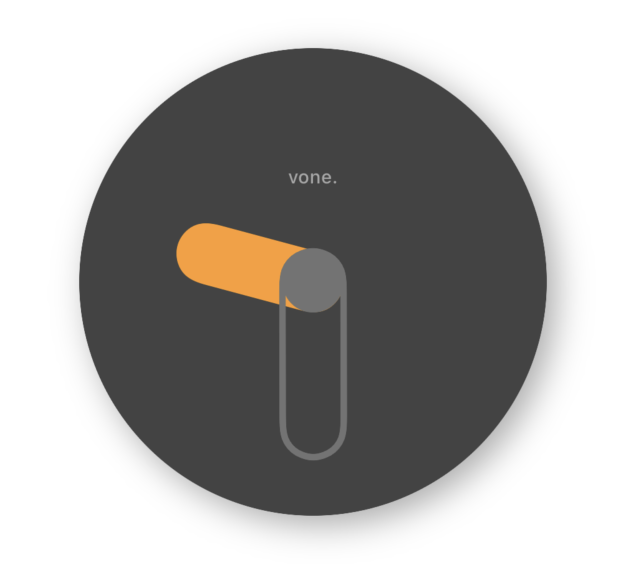
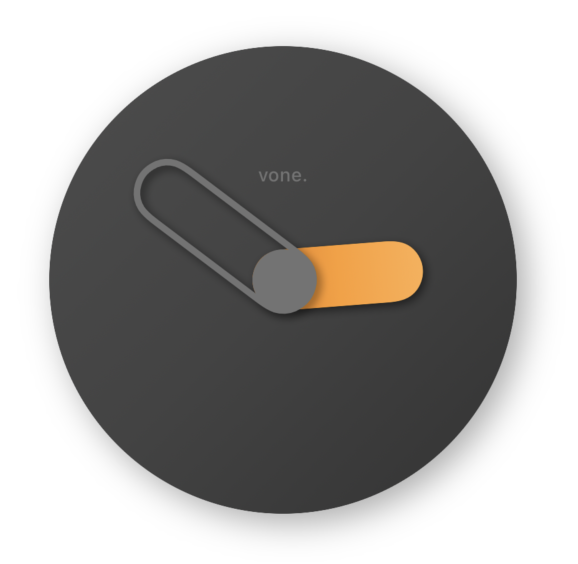
Added gradients to make vone clock face look more realistic.

diff --git a/Sources/SwiftClockKit/Themes/VoneClock/Constants/VoneClockTheme.swift b/Sources/SwiftClockKit/Themes/VoneClock/Constants/VoneClockTheme.swift
@@ -15,26 +15,42 @@ struct VoneClockTheme {
     }
     
 
-    // --- Day Colors ---
-    private static let dayFaceColor = Color(red: 0.263, green: 0.263, blue: 0.263) // Dark Matte Gray
-    private static let dayHourHandColor = Color(red: 0.994, green: 0.614, blue: 0.176) // Vibrant Orange
-    private static let dayMinuteHandColor = Color(red: 0.45, green: 0.45, blue: 0.45) // Slightly lighter Gray for minute hand frame
-    private static let dayBrandTextColor = Color(red: 0.45, green: 0.45, blue: 0.45) // Light gray for "vone." text
-    private static let dayShadow = Color.black.opacity(0.5)
-    
     // --- Night Colors ---
-    private static let nightFaceColor = Color(red: 214/255.0, green: 212/255.0, blue: 213/255.0)
-    private static let nightHourHandColor = Color(red: 253/255.0, green: 156/255.0, blue: 44/255.0)
-    private static let nightMinuteHandColor = Color(red: 106/255.0, green: 106/255.0, blue: 104/255.0)
-    private static let nightBrandTextColor = Color(white: 0.65)
-    private static let nightShadow = Color.black.opacity(0.6)
+    private static let nightFaceColor = Color(red: 0.263, green: 0.263, blue: 0.263) // Base
+    private static let nightFaceLightColor = Color(red: 0.30, green: 0.30, blue: 0.30)    // Slightly lighter
+    private static let nightFaceDarkColor = Color(red: 0.20, green: 0.20, blue: 0.20)     // Slightly darker
+    private static let nightHourHandColor = Color(red: 0.994, green: 0.614, blue: 0.176) // Base
+    private static let nightHourHandLightColor = Color(red: 1.0, green: 0.68, blue: 0.30) // Slightly lighter
+    private static let nightHourHandDarkColor = Color(red: 0.90, green: 0.48, blue: 0.10) // Slightly darker
+    private static let nightMinuteHandColor = Color(red: 0.45, green: 0.45, blue: 0.45) // Slightly lighter Gray for minute hand frame
+    private static let nightBrandTextColor = Color(red: 0.45, green: 0.45, blue: 0.45) // Light gray for "vone." text
+    private static let nightShadow = Color.black.opacity(0.5)
+    
+    // --- Day Colors ---
+    private static let dayFaceColor  = Color(red: 214/255.0, green: 212/255.0, blue: 213/255.0) // Base
+    private static let dayFaceLightColor = Color(red: 224/255.0, green: 222/255.0, blue: 223/255.0) // Slightly lighter
+    private static let dayFaceDarkColor = Color(red: 194/255.0, green: 192/255.0, blue: 193/255.0) // Slightly darker
+    private static let dayHourHandColor = Color(red: 253/255.0, green: 156/255.0, blue: 44/255.0) // Base
+    private static let dayHourHandLightColor = Color(red: 1.0, green: 170/255.0, blue: 70/255.0)   // Slightly lighter
+    private static let dayHourHandDarkColor  = Color(red: 230/255.0, green: 130/255.0, blue: 20/255.0) // Slightly darker
+    private static let dayMinuteHandColor = Color(red: 145/255.0, green: 145/255.0, blue: 143/255.0)
+    private static let dayBrandTextColor = Color(white: 0.65)
+    private static let dayShadow = Color.black.opacity(0.3)
+    
 
 
     // --- Computed Properties ---
-    var face: Color { effectiveColorScheme == .dark ? Self.dayFaceColor : Self.nightFaceColor }
-    var hourHand: Color { effectiveColorScheme == .dark ? Self.dayHourHandColor : Self.nightHourHandColor}
-    var minuteHand: Color { effectiveColorScheme == .dark ? Self.dayMinuteHandColor : Self.nightMinuteHandColor }
-    var centerHub: Color { effectiveColorScheme == .dark ? Self.dayMinuteHandColor : Self.nightMinuteHandColor }
+    var face: Color { effectiveColorScheme == .dark ? Self.nightFaceColor : Self.dayFaceColor }
+    var faceLight: Color { effectiveColorScheme == .dark ? Self.nightFaceLightColor : Self.dayFaceLightColor }
+    var faceDark: Color { effectiveColorScheme == .dark ? Self.nightFaceDarkColor : Self.dayFaceDarkColor }
+
+    var hourHand: Color { effectiveColorScheme == .dark ? Self.nightHourHandColor : Self.dayHourHandColor }
+    var hourHandLight: Color { effectiveColorScheme == .dark ? Self.nightHourHandLightColor : Self.dayHourHandLightColor }
+    var hourHandDark: Color { effectiveColorScheme == .dark ? Self.nightHourHandDarkColor : Self.dayHourHandDarkColor }
+
+    var minuteHand: Color { effectiveColorScheme == .dark ? Self.nightMinuteHandColor : Self.dayMinuteHandColor }
+    var centerHub: Color { effectiveColorScheme == .dark ? Self.nightMinuteHandColor : Self.dayMinuteHandColor }
+
     var brandText: Color { effectiveColorScheme == .dark ? Self.nightBrandTextColor : Self.dayBrandTextColor }
     var shadow: Color { effectiveColorScheme == .dark ? Self.nightShadow : Self.dayShadow }
     

diff --git a/Sources/SwiftClockKit/Themes/VoneClock/Views/Components/VoneHourHand.swift b/Sources/SwiftClockKit/Themes/VoneClock/Views/Components/VoneHourHand.swift
@@ -18,7 +18,17 @@ struct VoneHourHand: View {
     
     var body: some View {
         RoundedRectangle(cornerRadius: cornerRadius)
-            .fill(theme.hourHand)
+            .fill(
+                LinearGradient(
+                    gradient: Gradient(colors: [
+                        theme.hourHandLight,
+                        theme.hourHand,
+                        theme.hourHandDark
+                    ]),
+                    startPoint: .top,
+                    endPoint: .bottom
+                )
+            )
             .frame(width: width, height: drawnCapsuleLength)
             .offset(y: yOffset)
             .drawingGroup()

diff --git a/Sources/SwiftClockKit/Themes/VoneClock/Views/Components/VoneFace.swift b/Sources/SwiftClockKit/Themes/VoneClock/Views/Components/VoneFace.swift
@@ -1,0 +1,20 @@
+import SwiftUI
+
+struct VoneFace: View {
+    let theme: VoneClockTheme
+    
+    var body: some View {
+        Circle()
+            .fill(
+                LinearGradient(
+                    gradient: Gradient(colors: [
+                        theme.faceLight,
+                        theme.face,
+                        theme.faceDark
+                    ]),
+                    startPoint: .topLeading,
+                    endPoint: .bottomTrailing
+                )
+            )
+    }
+}

diff --git a/SwiftClockKitDemo/SwiftClockKitDemo/ContentView.swift b/SwiftClockKitDemo/SwiftClockKitDemo/ContentView.swift
@@ -15,7 +15,7 @@ struct ContentView: View {
                 .padding(.top)
 
             ClockView(
-                style: .braun, // Currently showcasing Braun style
+                style: .vone, // Currently showcasing Braun style
                 date: useCustomDate ? $selectedDate : nil,
                 appearance: currentAppearance
             )

diff --git a/Sources/SwiftClockKit/Themes/VoneClock/Views/VoneClockFaceView.swift b/Sources/SwiftClockKit/Themes/VoneClock/Views/VoneClockFaceView.swift
@@ -36,8 +36,7 @@ struct VoneClockFaceView: View {
 
         ZStack {
             // 1. Clock Face Base
-            Circle()
-                .fill(theme.face)
+            VoneFace(theme: theme)
 
             // 2. "vone." brand text
             Text(VoneThemeLayoutConstants.BrandText.text)
